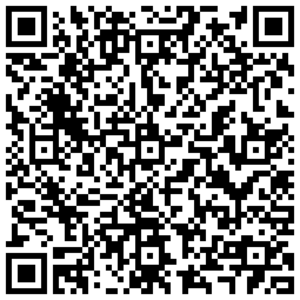
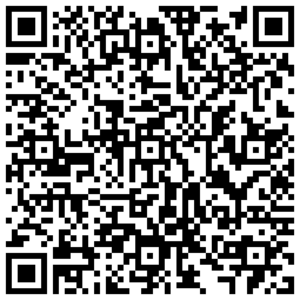
Update free configs - 2025-04-06

diff --git a/README.md b/README.md
@@ -1,6 +1,6 @@
 # 文档下方有很多可直接导入使用的高速节点/二维码订阅
 
-<p align='center'><strong>2025-04-05 12点准时更新每日免费节点，更多机场VPN优惠信息：<a href="https://vpn.tg10000.com">vpn.tg10000.com</a></strong></p>
+<p align='center'><strong>2025-04-06 12点准时更新每日免费节点，更多机场VPN优惠信息：<a href="https://vpn.tg10000.com">vpn.tg10000.com</a></strong></p>
 <p align='center'><strong>Telegram群:<a href="https://t.me/freevpn">@freevpntg</a></strong></p>
 
 
@@ -60,120 +60,120 @@
 
 <p align='center'><img src='img/1.png' alt='QR Code' width='300'></p>
 
-<p align='center'><code>ss://Y2hhY2hhMjAtaWV0Zi1wb2x5MTMwNTo0NGNjZDQxYy1jZDg2LTRhODgtYTAyMS0wZmRmNjM4YjVkZWM=@free.2weradf.xyz:36141#0%7C%F0%9F%87%AD%F0%9F%87%B0%20%E9%A6%99%E6%B8%AF%2001%20%7C%201x%20HK</code></p>
+<p align='center'><code>ss://Y2hhY2hhMjAtaWV0Zi1wb2x5MTMwNTo2YWNlNjAwOS01ODZhLTQwNjItODMzNy02YzQ5YTAxZTNlMDg=@free.2apzhfa.xyz:31141#0%7C%F0%9F%87%AD%F0%9F%87%B0%E9%A6%99%E6%B8%AF%2001%20%7C%201x%20HK</code></p>
 
 <p align='center'><img src='img/2.png' alt='QR Code' width='300'></p>
 
-<p align='center'><code>ss://Y2hhY2hhMjAtaWV0Zi1wb2x5MTMwNTo0NGNjZDQxYy1jZDg2LTRhODgtYTAyMS0wZmRmNjM4YjVkZWM=@free.2weradf.xyz:36143#0%7C%F0%9F%87%AD%F0%9F%87%B0%20%E9%A6%99%E6%B8%AF%2002%20%7C%201x%20HK</code></p>
+<p align='center'><code>ss://Y2hhY2hhMjAtaWV0Zi1wb2x5MTMwNTo2YWNlNjAwOS01ODZhLTQwNjItODMzNy02YzQ5YTAxZTNlMDg=@free.2apzhfa.xyz:31143#0%7C%F0%9F%87%AD%F0%9F%87%B0%E9%A6%99%E6%B8%AF%2002%20%7C%201x%20HK</code></p>
 
 <p align='center'><img src='img/3.png' alt='QR Code' width='300'></p>
 
-<p align='center'><code>ss://Y2hhY2hhMjAtaWV0Zi1wb2x5MTMwNTo0NGNjZDQxYy1jZDg2LTRhODgtYTAyMS0wZmRmNjM4YjVkZWM=@free.2weradf.xyz:36145#0%7C%F0%9F%87%AD%F0%9F%87%B0%20%E9%A6%99%E6%B8%AF%E4%BD%8F%E5%AE%85IP%2003%20%7C%201x%20HK</code></p>
+<p align='center'><code>ss://Y2hhY2hhMjAtaWV0Zi1wb2x5MTMwNTo2YWNlNjAwOS01ODZhLTQwNjItODMzNy02YzQ5YTAxZTNlMDg=@free.2apzhfa.xyz:31145#0%7C%F0%9F%87%AD%F0%9F%87%B0%E9%A6%99%E6%B8%AF%E5%AE%B6%E5%AE%BD%2003%20%7C%201x%20HK</code></p>
 
 <p align='center'><img src='img/4.png' alt='QR Code' width='300'></p>
 
-<p align='center'><code>ss://Y2hhY2hhMjAtaWV0Zi1wb2x5MTMwNTo0NGNjZDQxYy1jZDg2LTRhODgtYTAyMS0wZmRmNjM4YjVkZWM=@free.2weradf.xyz:36241#0%7C%F0%9F%87%B9%F0%9F%87%BC%20%E5%8F%B0%E6%B9%BE%2001%20%7C%201x%20TW</code></p>
+<p align='center'><code>ss://Y2hhY2hhMjAtaWV0Zi1wb2x5MTMwNTo2YWNlNjAwOS01ODZhLTQwNjItODMzNy02YzQ5YTAxZTNlMDg=@free.2apzhfa.xyz:31241#0%7C%F0%9F%87%B9%F0%9F%87%BC%E5%8F%B0%E6%B9%BE%2001%20%7C%201x%20TW</code></p>
 
 <p align='center'><img src='img/5.png' alt='QR Code' width='300'></p>
 
-<p align='center'><code>ss://Y2hhY2hhMjAtaWV0Zi1wb2x5MTMwNTo0NGNjZDQxYy1jZDg2LTRhODgtYTAyMS0wZmRmNjM4YjVkZWM=@free.2weradf.xyz:36243#0%7C%F0%9F%87%B9%F0%9F%87%BC%20%E5%8F%B0%E6%B9%BE%2002%20%7C%201x%20TW</code></p>
+<p align='center'><code>ss://Y2hhY2hhMjAtaWV0Zi1wb2x5MTMwNTo2YWNlNjAwOS01ODZhLTQwNjItODMzNy02YzQ5YTAxZTNlMDg=@free.2apzhfa.xyz:31243#0%7C%F0%9F%87%B9%F0%9F%87%BC%E5%8F%B0%E6%B9%BE%2002%20%7C%201x%20TW</code></p>
 
 <p align='center'><img src='img/6.png' alt='QR Code' width='300'></p>
 
-<p align='center'><code>ss://Y2hhY2hhMjAtaWV0Zi1wb2x5MTMwNTo0NGNjZDQxYy1jZDg2LTRhODgtYTAyMS0wZmRmNjM4YjVkZWM=@free.2weradf.xyz:36245#0%7C%F0%9F%87%B9%F0%9F%87%BC%20%E5%8F%B0%E6%B9%BE%2003%20%7C%201x%20TW</code></p>
+<p align='center'><code>ss://Y2hhY2hhMjAtaWV0Zi1wb2x5MTMwNTo2YWNlNjAwOS01ODZhLTQwNjItODMzNy02YzQ5YTAxZTNlMDg=@free.2apzhfa.xyz:31245#0%7C%F0%9F%87%B9%F0%9F%87%BC%E5%8F%B0%E6%B9%BE%2003%20%7C%201x%20TW</code></p>
 
 <p align='center'><img src='img/7.png' alt='QR Code' width='300'></p>
 
-<p align='center'><code>ss://Y2hhY2hhMjAtaWV0Zi1wb2x5MTMwNTo0NGNjZDQxYy1jZDg2LTRhODgtYTAyMS0wZmRmNjM4YjVkZWM=@free.2weradf.xyz:36111#0%7C%F0%9F%87%AF%F0%9F%87%B5%20%E6%97%A5%E6%9C%AC%2001%20%7C%201x%20JP</code></p>
+<p align='center'><code>ss://Y2hhY2hhMjAtaWV0Zi1wb2x5MTMwNTo2YWNlNjAwOS01ODZhLTQwNjItODMzNy02YzQ5YTAxZTNlMDg=@free.2apzhfa.xyz:31111#0%7C%F0%9F%87%AF%F0%9F%87%B5%E6%97%A5%E6%9C%AC%2001%20%7C%201x%20JP</code></p>
 
 <p align='center'><img src='img/8.png' alt='QR Code' width='300'></p>
 
-<p align='center'><code>ss://Y2hhY2hhMjAtaWV0Zi1wb2x5MTMwNTo0NGNjZDQxYy1jZDg2LTRhODgtYTAyMS0wZmRmNjM4YjVkZWM=@free.2weradf.xyz:36113#0%7C%F0%9F%87%AF%F0%9F%87%B5%20%E6%97%A5%E6%9C%AC%2002%20%7C%201x%20JP</code></p>
+<p align='center'><code>ss://Y2hhY2hhMjAtaWV0Zi1wb2x5MTMwNTo2YWNlNjAwOS01ODZhLTQwNjItODMzNy02YzQ5YTAxZTNlMDg=@free.2apzhfa.xyz:31113#0%7C%F0%9F%87%AF%F0%9F%87%B5%E6%97%A5%E6%9C%AC%2002%20%7C%201x%20JP</code></p>
 
 <p align='center'><img src='img/9.png' alt='QR Code' width='300'></p>
 
-<p align='center'><code>ss://Y2hhY2hhMjAtaWV0Zi1wb2x5MTMwNTo0NGNjZDQxYy1jZDg2LTRhODgtYTAyMS0wZmRmNjM4YjVkZWM=@free.2weradf.xyz:36115#0%7C%F0%9F%87%AF%F0%9F%87%B5%20%E6%97%A5%E6%9C%AC%2003%20%7C%201x%20JP</code></p>
+<p align='center'><code>ss://Y2hhY2hhMjAtaWV0Zi1wb2x5MTMwNTo2YWNlNjAwOS01ODZhLTQwNjItODMzNy02YzQ5YTAxZTNlMDg=@free.2apzhfa.xyz:31115#0%7C%F0%9F%87%AF%F0%9F%87%B5%E6%97%A5%E6%9C%AC%2003%20%7C%201x%20JP</code></p>
 
 <p align='center'><img src='img/10.png' alt='QR Code' width='300'></p>
 
-<p align='center'><code>ss://Y2hhY2hhMjAtaWV0Zi1wb2x5MTMwNTo0NGNjZDQxYy1jZDg2LTRhODgtYTAyMS0wZmRmNjM4YjVkZWM=@free.2weradf.xyz:36171#0%7C%F0%9F%87%B8%F0%9F%87%AC%20%E6%96%B0%E5%8A%A0%E5%9D%A1%2001%20%7C%201x%20SG</code></p>
+<p align='center'><code>ss://Y2hhY2hhMjAtaWV0Zi1wb2x5MTMwNTo2YWNlNjAwOS01ODZhLTQwNjItODMzNy02YzQ5YTAxZTNlMDg=@free.2apzhfa.xyz:31171#0%7C%F0%9F%87%B8%F0%9F%87%AC%E6%96%B0%E5%8A%A0%E5%9D%A1%2001%20%7C%201x%20SG</code></p>
 
 <p align='center'><img src='img/11.png' alt='QR Code' width='300'></p>
 
-<p align='center'><code>ss://Y2hhY2hhMjAtaWV0Zi1wb2x5MTMwNTo0NGNjZDQxYy1jZDg2LTRhODgtYTAyMS0wZmRmNjM4YjVkZWM=@free.2weradf.xyz:36173#0%7C%F0%9F%87%B8%F0%9F%87%AC%20%E6%96%B0%E5%8A%A0%E5%9D%A1%2002%20%7C%201x%20SG</code></p>
+<p align='center'><code>ss://Y2hhY2hhMjAtaWV0Zi1wb2x5MTMwNTo2YWNlNjAwOS01ODZhLTQwNjItODMzNy02YzQ5YTAxZTNlMDg=@free.2apzhfa.xyz:31173#0%7C%F0%9F%87%B8%F0%9F%87%AC%E6%96%B0%E5%8A%A0%E5%9D%A1%2002%20%7C%201x%20SG</code></p>
 
 <p align='center'><img src='img/12.png' alt='QR Code' width='300'></p>
 
-<p align='center'><code>ss://Y2hhY2hhMjAtaWV0Zi1wb2x5MTMwNTo0NGNjZDQxYy1jZDg2LTRhODgtYTAyMS0wZmRmNjM4YjVkZWM=@free.2weradf.xyz:36175#0%7C%F0%9F%87%B8%F0%9F%87%AC%20%E6%96%B0%E5%8A%A0%E5%9D%A1%2003%20%7C%201x%20SG</code></p>
+<p align='center'><code>ss://Y2hhY2hhMjAtaWV0Zi1wb2x5MTMwNTo2YWNlNjAwOS01ODZhLTQwNjItODMzNy02YzQ5YTAxZTNlMDg=@free.2apzhfa.xyz:31175#0%7C%F0%9F%87%B8%F0%9F%87%AC%E6%96%B0%E5%8A%A0%E5%9D%A1%2003%20%7C%201x%20SG</code></p>
 
 <p align='center'><img src='img/13.png' alt='QR Code' width='300'></p>
 
-<p align='center'><code>ss://Y2hhY2hhMjAtaWV0Zi1wb2x5MTMwNTo0NGNjZDQxYy1jZDg2LTRhODgtYTAyMS0wZmRmNjM4YjVkZWM=@free.2weradf.xyz:36311#0%7C%F0%9F%87%B0%F0%9F%87%B7%20%E9%9F%A9%E5%9B%BD%2001%20%7C%201x%20KR</code></p>
+<p align='center'><code>ss://Y2hhY2hhMjAtaWV0Zi1wb2x5MTMwNTo2YWNlNjAwOS01ODZhLTQwNjItODMzNy02YzQ5YTAxZTNlMDg=@free.2apzhfa.xyz:31311#0%7C%F0%9F%87%B0%F0%9F%87%B7%E9%9F%A9%E5%9B%BD%2001%20%7C%201x%20KR</code></p>
 
 <p align='center'><img src='img/14.png' alt='QR Code' width='300'></p>
 
-<p align='center'><code>ss://Y2hhY2hhMjAtaWV0Zi1wb2x5MTMwNTo0NGNjZDQxYy1jZDg2LTRhODgtYTAyMS0wZmRmNjM4YjVkZWM=@free.2weradf.xyz:36313#0%7C%F0%9F%87%B0%F0%9F%87%B7%20%E9%9F%A9%E5%9B%BD%2002%20%7C%201x%20KR</code></p>
+<p align='center'><code>ss://Y2hhY2hhMjAtaWV0Zi1wb2x5MTMwNTo2YWNlNjAwOS01ODZhLTQwNjItODMzNy02YzQ5YTAxZTNlMDg=@free.2apzhfa.xyz:31313#0%7C%F0%9F%87%B0%F0%9F%87%B7%E9%9F%A9%E5%9B%BD%2002%20%7C%201x%20KR</code></p>
 
 <p align='center'><img src='img/15.png' alt='QR Code' width='300'></p>
 
-<p align='center'><code>ss://Y2hhY2hhMjAtaWV0Zi1wb2x5MTMwNTo0NGNjZDQxYy1jZDg2LTRhODgtYTAyMS0wZmRmNjM4YjVkZWM=@free.2weradf.xyz:36341#0%7C%F0%9F%87%B5%F0%9F%87%AD%20%E8%8F%B2%E5%BE%8B%E5%AE%BE%2001%20%7C%201x%20PH</code></p>
+<p align='center'><code>ss://Y2hhY2hhMjAtaWV0Zi1wb2x5MTMwNTo2YWNlNjAwOS01ODZhLTQwNjItODMzNy02YzQ5YTAxZTNlMDg=@free.2apzhfa.xyz:31341#0%7C%F0%9F%87%B5%F0%9F%87%AD%E8%8F%B2%E5%BE%8B%E5%AE%BE%2001%20%7C%201x%20PH</code></p>
 
 <p align='center'><img src='img/16.png' alt='QR Code' width='300'></p>
 
-<p align='center'><code>ss://Y2hhY2hhMjAtaWV0Zi1wb2x5MTMwNTo0NGNjZDQxYy1jZDg2LTRhODgtYTAyMS0wZmRmNjM4YjVkZWM=@free.2weradf.xyz:36211#0%7C%F0%9F%87%BA%F0%9F%87%B8%20%E7%BE%8E%E5%9B%BD%2001%20%7C%201x%20US%20Los%20Angeles</code></p>
+<p align='center'><code>ss://Y2hhY2hhMjAtaWV0Zi1wb2x5MTMwNTo2YWNlNjAwOS01ODZhLTQwNjItODMzNy02YzQ5YTAxZTNlMDg=@free.2apzhfa.xyz:31211#0%7C%F0%9F%87%BA%F0%9F%87%B8%E7%BE%8E%E5%9B%BD%2001%20%7C%201x%20US%20Los%20Angeles</code></p>
 
 <p align='center'><img src='img/17.png' alt='QR Code' width='300'></p>
 
-<p align='center'><code>ss://Y2hhY2hhMjAtaWV0Zi1wb2x5MTMwNTo0NGNjZDQxYy1jZDg2LTRhODgtYTAyMS0wZmRmNjM4YjVkZWM=@free.2weradf.xyz:36213#0%7C%F0%9F%87%BA%F0%9F%87%B8%20%E7%BE%8E%E5%9B%BD%E4%BD%8F%E5%AE%85IP%2002%20%7C%201x%20US%20Los%20Angel...</code></p>
+<p align='center'><code>ss://Y2hhY2hhMjAtaWV0Zi1wb2x5MTMwNTo2YWNlNjAwOS01ODZhLTQwNjItODMzNy02YzQ5YTAxZTNlMDg=@free.2apzhfa.xyz:31213#0%7C%F0%9F%87%BA%F0%9F%87%B8%E7%BE%8E%E5%9B%BD%E5%AE%B6%E5%AE%BD%2002%20%7C%201x%20US%20Los%20Angeles</code></p>
 
 <p align='center'><img src='img/18.png' alt='QR Code' width='300'></p>
 
-<p align='center'><code>ss://Y2hhY2hhMjAtaWV0Zi1wb2x5MTMwNTo0NGNjZDQxYy1jZDg2LTRhODgtYTAyMS0wZmRmNjM4YjVkZWM=@free.2weradf.xyz:36215#0%7C%F0%9F%87%BA%F0%9F%87%B8%20%E7%BE%8E%E5%9B%BD%2003%20%7C%201x%20US%20Washington</code></p>
+<p align='center'><code>ss://Y2hhY2hhMjAtaWV0Zi1wb2x5MTMwNTo2YWNlNjAwOS01ODZhLTQwNjItODMzNy02YzQ5YTAxZTNlMDg=@free.2apzhfa.xyz:31215#0%7C%F0%9F%87%BA%F0%9F%87%B8%E7%BE%8E%E5%9B%BD%2003%20%7C%201x%20US%20Washington</code></p>
 
 <p align='center'><img src='img/19.png' alt='QR Code' width='300'></p>
 
-<p align='center'><code>ss://Y2hhY2hhMjAtaWV0Zi1wb2x5MTMwNTo0NGNjZDQxYy1jZDg2LTRhODgtYTAyMS0wZmRmNjM4YjVkZWM=@free.2weradf.xyz:36271#0%7C%F0%9F%87%AC%F0%9F%87%A7%20%E8%8B%B1%E5%9B%BD%E4%BD%8F%E5%AE%85IP%2001%20%7C%201x%20UK</code></p>
+<p align='center'><code>ss://Y2hhY2hhMjAtaWV0Zi1wb2x5MTMwNTo2YWNlNjAwOS01ODZhLTQwNjItODMzNy02YzQ5YTAxZTNlMDg=@free.2apzhfa.xyz:31271#0%7C%F0%9F%87%AC%F0%9F%87%A7%E8%8B%B1%E5%9B%BD%E5%AE%B6%E5%AE%BD%2001%20%7C%201x%20UK</code></p>
 
 <p align='center'><img src='img/20.png' alt='QR Code' width='300'></p>
 
-<p align='center'><code>ss://Y2hhY2hhMjAtaWV0Zi1wb2x5MTMwNTo0NGNjZDQxYy1jZDg2LTRhODgtYTAyMS0wZmRmNjM4YjVkZWM=@free.2weradf.xyz:36721#0%7C%F0%9F%87%B2%F0%9F%87%BE%E9%A9%AC%E6%9D%A5%E8%A5%BF%E4%BA%9A%2001%20%7C%201x%20MY</code></p>
+<p align='center'><code>ss://Y2hhY2hhMjAtaWV0Zi1wb2x5MTMwNTo2YWNlNjAwOS01ODZhLTQwNjItODMzNy02YzQ5YTAxZTNlMDg=@free.2apzhfa.xyz:31741#0%7C%F0%9F%87%B9%F0%9F%87%AD%E6%B3%B0%E5%9B%BD01%20%20%7C%201x%20TH</code></p>
 
 <p align='center'><img src='img/21.png' alt='QR Code' width='300'></p>
 
-<p align='center'><code>ss://Y2hhY2hhMjAtaWV0Zi1wb2x5MTMwNTo0NGNjZDQxYy1jZDg2LTRhODgtYTAyMS0wZmRmNjM4YjVkZWM=@free.2weradf.xyz:36722#0%7C%F0%9F%87%B2%F0%9F%87%BE%E9%A9%AC%E6%9D%A5%E8%A5%BF%E4%BA%9A%2002%20%7C%201x%20MY</code></p>
+<p align='center'><code>ss://Y2hhY2hhMjAtaWV0Zi1wb2x5MTMwNTo2YWNlNjAwOS01ODZhLTQwNjItODMzNy02YzQ5YTAxZTNlMDg=@free.2apzhfa.xyz:31721#0%7C%F0%9F%87%B2%F0%9F%87%BE%E9%A9%AC%E6%9D%A5%E8%A5%BF%E4%BA%9A01%20%7C%201x%20MY</code></p>
 
 <p align='center'><img src='img/22.png' alt='QR Code' width='300'></p>
 
-<p align='center'><code>ss://Y2hhY2hhMjAtaWV0Zi1wb2x5MTMwNTo0NGNjZDQxYy1jZDg2LTRhODgtYTAyMS0wZmRmNjM4YjVkZWM=@free.2weradf.xyz:36741#0%7C%F0%9F%87%AE%F0%9F%87%B3%E8%A5%BF%E7%8F%AD%E7%89%99%2001%20%7C%201x%20ES</code></p>
+<p align='center'><code>ss://Y2hhY2hhMjAtaWV0Zi1wb2x5MTMwNTo2YWNlNjAwOS01ODZhLTQwNjItODMzNy02YzQ5YTAxZTNlMDg=@free.2apzhfa.xyz:31722#0%7C%F0%9F%87%B2%F0%9F%87%BE%E9%A9%AC%E6%9D%A5%E8%A5%BF%E4%BA%9A02%20%7C%201x%20MY</code></p>
 
 <p align='center'><img src='img/23.png' alt='QR Code' width='300'></p>
 
-<p align='center'><code>ss://Y2hhY2hhMjAtaWV0Zi1wb2x5MTMwNTo0NGNjZDQxYy1jZDg2LTRhODgtYTAyMS0wZmRmNjM4YjVkZWM=@free.2weradf.xyz:36731#0%7C%F0%9F%87%B9%F0%9F%87%AD%E6%B3%B0%E5%9B%BD%2001%20%7C%201x%20TH</code></p>
+<p align='center'><code>ss://Y2hhY2hhMjAtaWV0Zi1wb2x5MTMwNTo2YWNlNjAwOS01ODZhLTQwNjItODMzNy02YzQ5YTAxZTNlMDg=@free.2apzhfa.xyz:31371#0%7C%F0%9F%87%AE%F0%9F%87%B3%E5%8D%B0%E5%BA%A6%2001%20%7C%201x%20IN</code></p>
 
 <p align='center'><img src='img/24.png' alt='QR Code' width='300'></p>
 
-<p align='center'><code>ss://Y2hhY2hhMjAtaWV0Zi1wb2x5MTMwNTo0NGNjZDQxYy1jZDg2LTRhODgtYTAyMS0wZmRmNjM4YjVkZWM=@free.2weradf.xyz:36371#0%7C%F0%9F%87%AE%F0%9F%87%B3%20%E5%8D%B0%E5%BA%A6%2001%20%7C%201x%20IN</code></p>
+<p align='center'><code>ss://Y2hhY2hhMjAtaWV0Zi1wb2x5MTMwNTo2YWNlNjAwOS01ODZhLTQwNjItODMzNy02YzQ5YTAxZTNlMDg=@free.2apzhfa.xyz:31411#0%7C%F0%9F%87%A6%F0%9F%87%BA%E6%BE%B3%E5%A4%A7%E5%88%A9%E4%BA%9A%2001%20%7C%201x%20AU</code></p>
 
 <p align='center'><img src='img/25.png' alt='QR Code' width='300'></p>
 
-<p align='center'><code>ss://Y2hhY2hhMjAtaWV0Zi1wb2x5MTMwNTo0NGNjZDQxYy1jZDg2LTRhODgtYTAyMS0wZmRmNjM4YjVkZWM=@free.2weradf.xyz:36411#0%7C%F0%9F%87%A6%F0%9F%87%BA%20%E6%BE%B3%E5%A4%A7%E5%88%A9%E4%BA%9A%2001%20%7C%201x%20AU</code></p>
+<p align='center'><code>ss://Y2hhY2hhMjAtaWV0Zi1wb2x5MTMwNTo2YWNlNjAwOS01ODZhLTQwNjItODMzNy02YzQ5YTAxZTNlMDg=@free.2apzhfa.xyz:31441#0%7C%F0%9F%87%A8%F0%9F%87%A6%E5%8A%A0%E6%8B%BF%E5%A4%A7%2001%20%7C%201x%20CA</code></p>
 
 <p align='center'><img src='img/26.png' alt='QR Code' width='300'></p>
 
-<p align='center'><code>ss://Y2hhY2hhMjAtaWV0Zi1wb2x5MTMwNTo0NGNjZDQxYy1jZDg2LTRhODgtYTAyMS0wZmRmNjM4YjVkZWM=@free.2weradf.xyz:36441#0%7C%F0%9F%87%A8%F0%9F%87%A6%20%E5%8A%A0%E6%8B%BF%E5%A4%A7%2001%20%7C%201x%20CA</code></p>
+<p align='center'><code>ss://Y2hhY2hhMjAtaWV0Zi1wb2x5MTMwNTo2YWNlNjAwOS01ODZhLTQwNjItODMzNy02YzQ5YTAxZTNlMDg=@free.2apzhfa.xyz:31471#0%7C%F0%9F%87%A9%F0%9F%87%AA%E5%BE%B7%E5%9B%BD%2001%20%7C%201x%20DE</code></p>
 
 <p align='center'><img src='img/27.png' alt='QR Code' width='300'></p>
 
-<p align='center'><code>ss://Y2hhY2hhMjAtaWV0Zi1wb2x5MTMwNTo0NGNjZDQxYy1jZDg2LTRhODgtYTAyMS0wZmRmNjM4YjVkZWM=@free.2weradf.xyz:36471#0%7C%F0%9F%87%A9%F0%9F%87%AA%20%E5%BE%B7%E5%9B%BD%2001%20%7C%201x%20DE</code></p>
+<p align='center'><code>ss://Y2hhY2hhMjAtaWV0Zi1wb2x5MTMwNTo2YWNlNjAwOS01ODZhLTQwNjItODMzNy02YzQ5YTAxZTNlMDg=@free.2apzhfa.xyz:31511#0%7C%F0%9F%87%B7%F0%9F%87%BA%E4%BF%84%E7%BD%97%E6%96%AF%2001%20%7C%201x%20RU</code></p>
 
 <p align='center'><img src='img/28.png' alt='QR Code' width='300'></p>
 
-<p align='center'><code>ss://Y2hhY2hhMjAtaWV0Zi1wb2x5MTMwNTo0NGNjZDQxYy1jZDg2LTRhODgtYTAyMS0wZmRmNjM4YjVkZWM=@free.2weradf.xyz:36511#0%7C%F0%9F%87%B7%F0%9F%87%BA%20%E4%BF%84%E7%BD%97%E6%96%AF%2001%20%7C%201x%20RU</code></p>
+<p align='center'><code>ss://Y2hhY2hhMjAtaWV0Zi1wb2x5MTMwNTo2YWNlNjAwOS01ODZhLTQwNjItODMzNy02YzQ5YTAxZTNlMDg=@free.2apzhfa.xyz:31571#0%7C%F0%9F%87%B9%F0%9F%87%B7%E5%9C%9F%E8%80%B3%E5%85%B6%2001%20%7C%201x%20TR</code></p>
 
 <p align='center'><img src='img/29.png' alt='QR Code' width='300'></p>
 
-<p align='center'><code>ss://Y2hhY2hhMjAtaWV0Zi1wb2x5MTMwNTo0NGNjZDQxYy1jZDg2LTRhODgtYTAyMS0wZmRmNjM4YjVkZWM=@free.2weradf.xyz:36571#0%7C%F0%9F%87%B9%F0%9F%87%B7%20%E5%9C%9F%E8%80%B3%E5%85%B6%2001%20%7C%201x%20TR</code></p>
+<p align='center'><code>ss://Y2hhY2hhMjAtaWV0Zi1wb2x5MTMwNTo2YWNlNjAwOS01ODZhLTQwNjItODMzNy02YzQ5YTAxZTNlMDg=@free.2apzhfa.xyz:31611#0%7C%F0%9F%87%BA%F0%9F%87%A6%E4%B9%8C%E5%85%8B%E5%85%B0%2001%20%7C%201x%20UA</code></p>
 
 <p align='center'><img src='img/30.png' alt='QR Code' width='300'></p>
 
-<p align='center'><code>ss://Y2hhY2hhMjAtaWV0Zi1wb2x5MTMwNTo0NGNjZDQxYy1jZDg2LTRhODgtYTAyMS0wZmRmNjM4YjVkZWM=@free.2weradf.xyz:36611#0%7C%F0%9F%87%BA%F0%9F%87%A6%20%E4%B9%8C%E5%85%8B%E5%85%B0%2001%20%7C%201x%20UA</code></p>
+<p align='center'><code>ss://Y2hhY2hhMjAtaWV0Zi1wb2x5MTMwNTo2YWNlNjAwOS01ODZhLTQwNjItODMzNy02YzQ5YTAxZTNlMDg=@free.2apzhfa.xyz:31641#0%7C%F0%9F%87%BB%F0%9F%87%B3%E8%B6%8A%E5%8D%97%2001%20%7C%201x%20VN</code></p>
